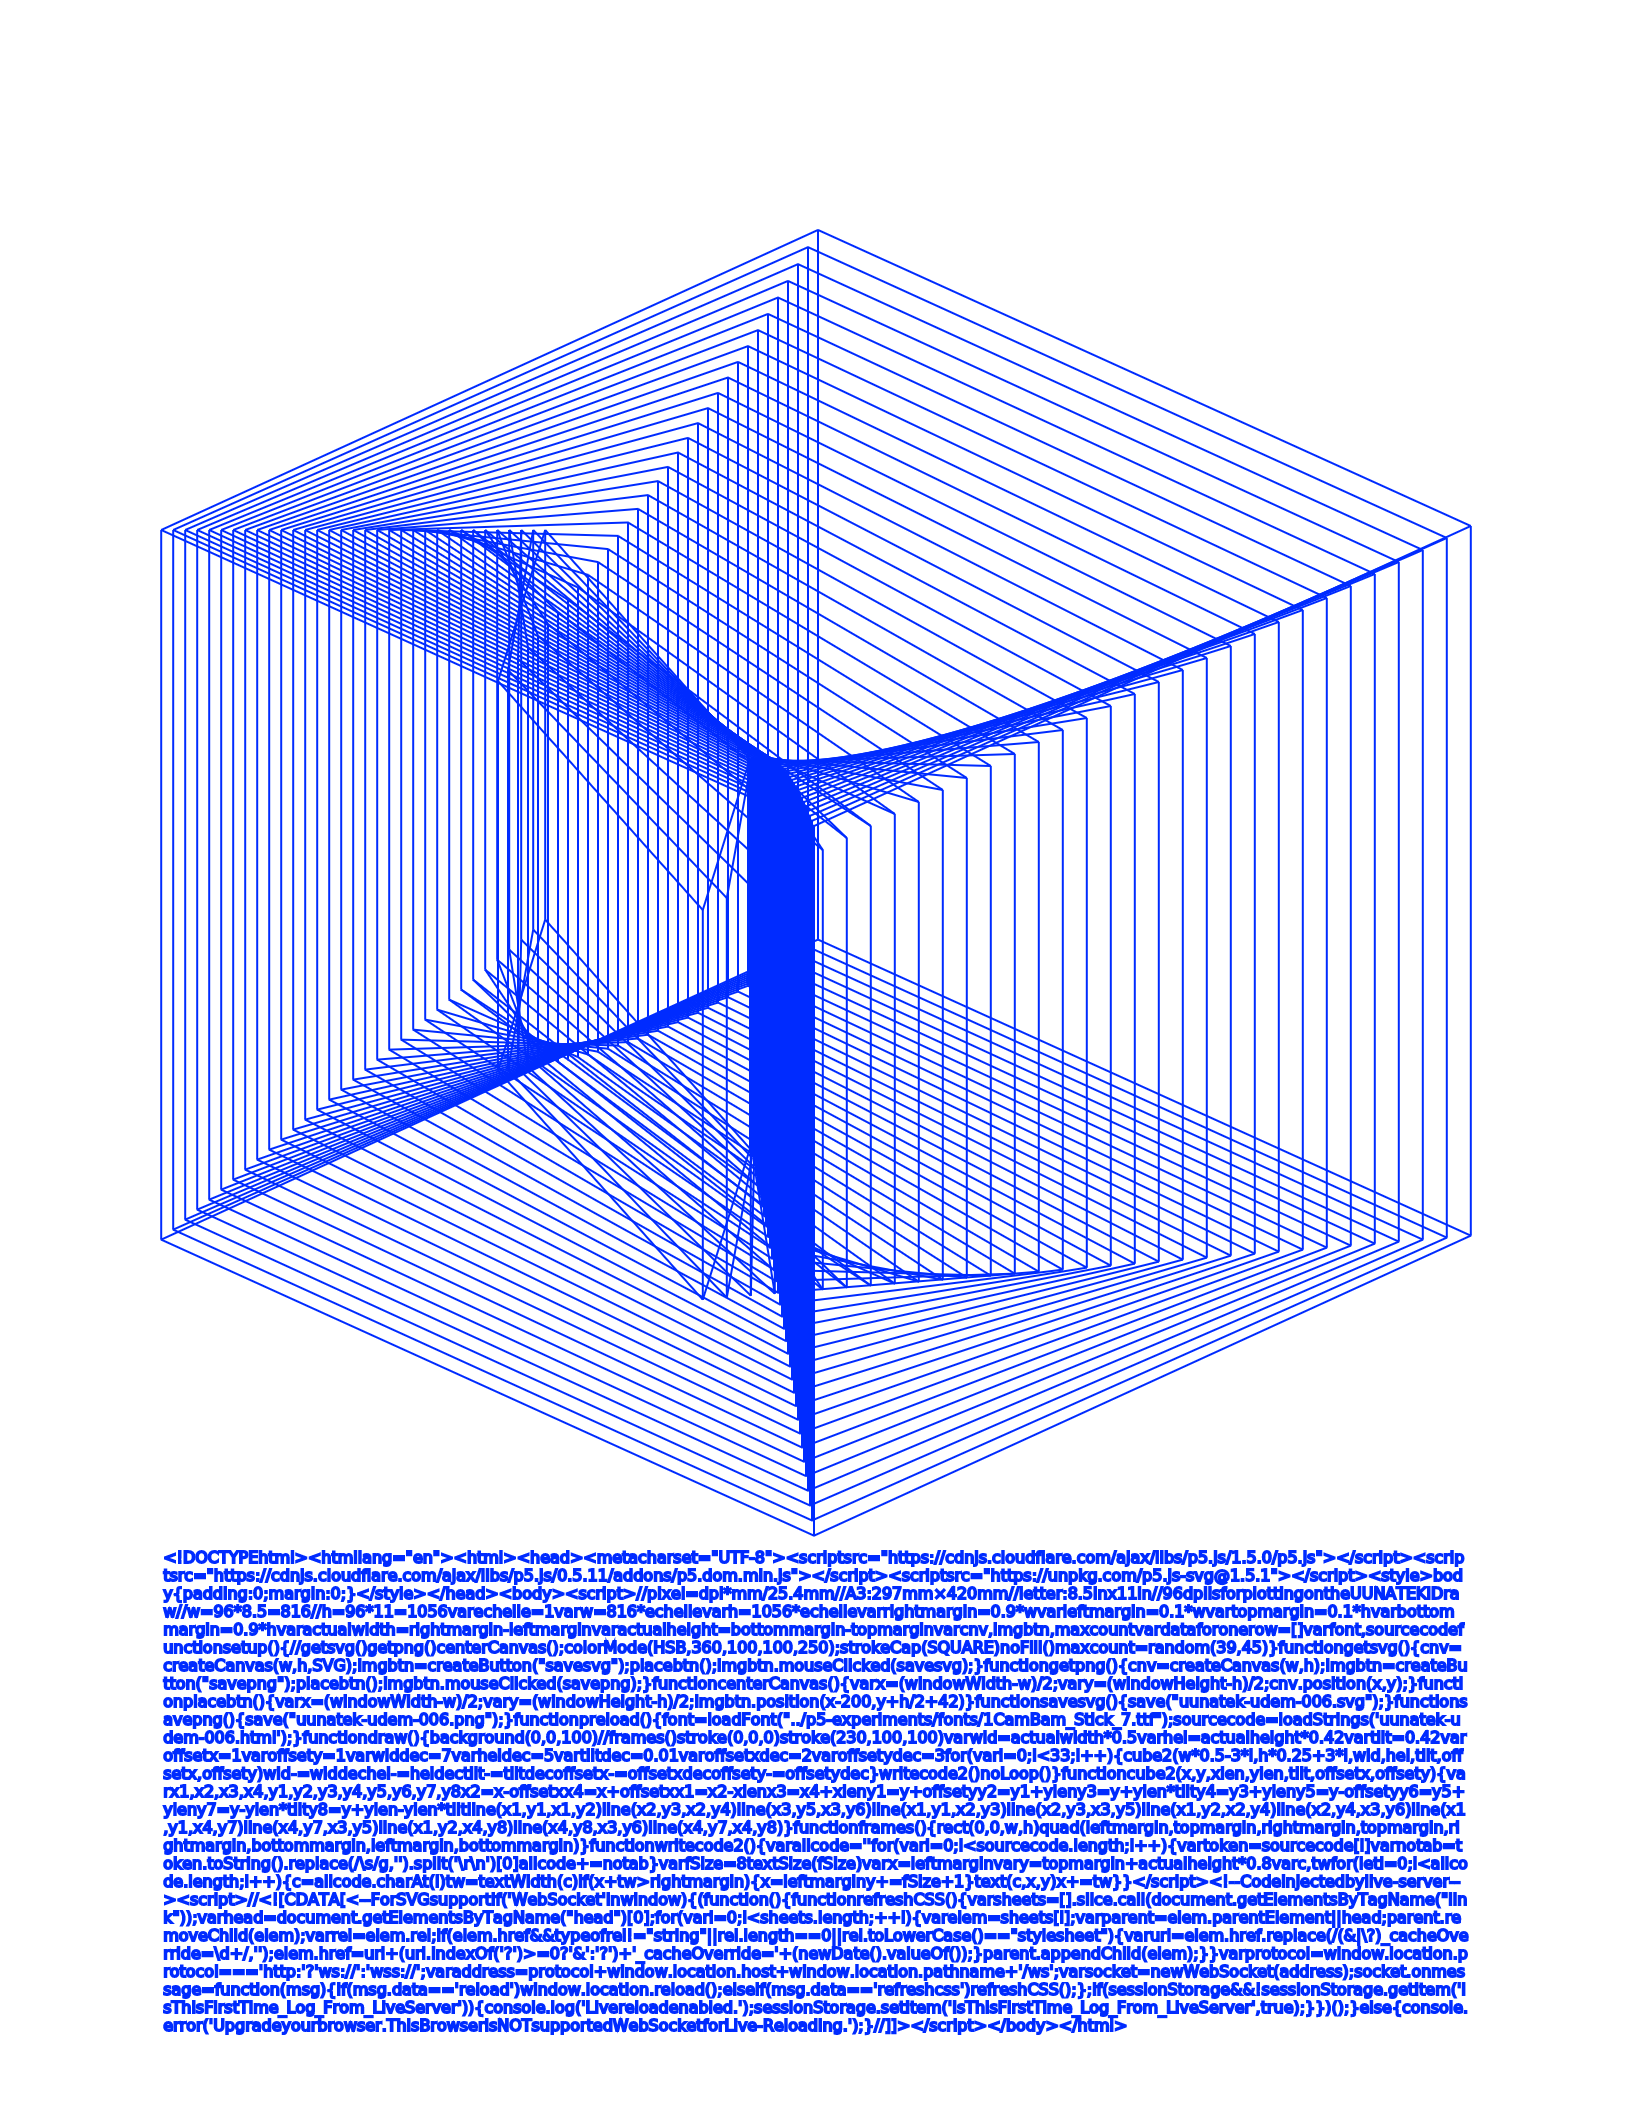
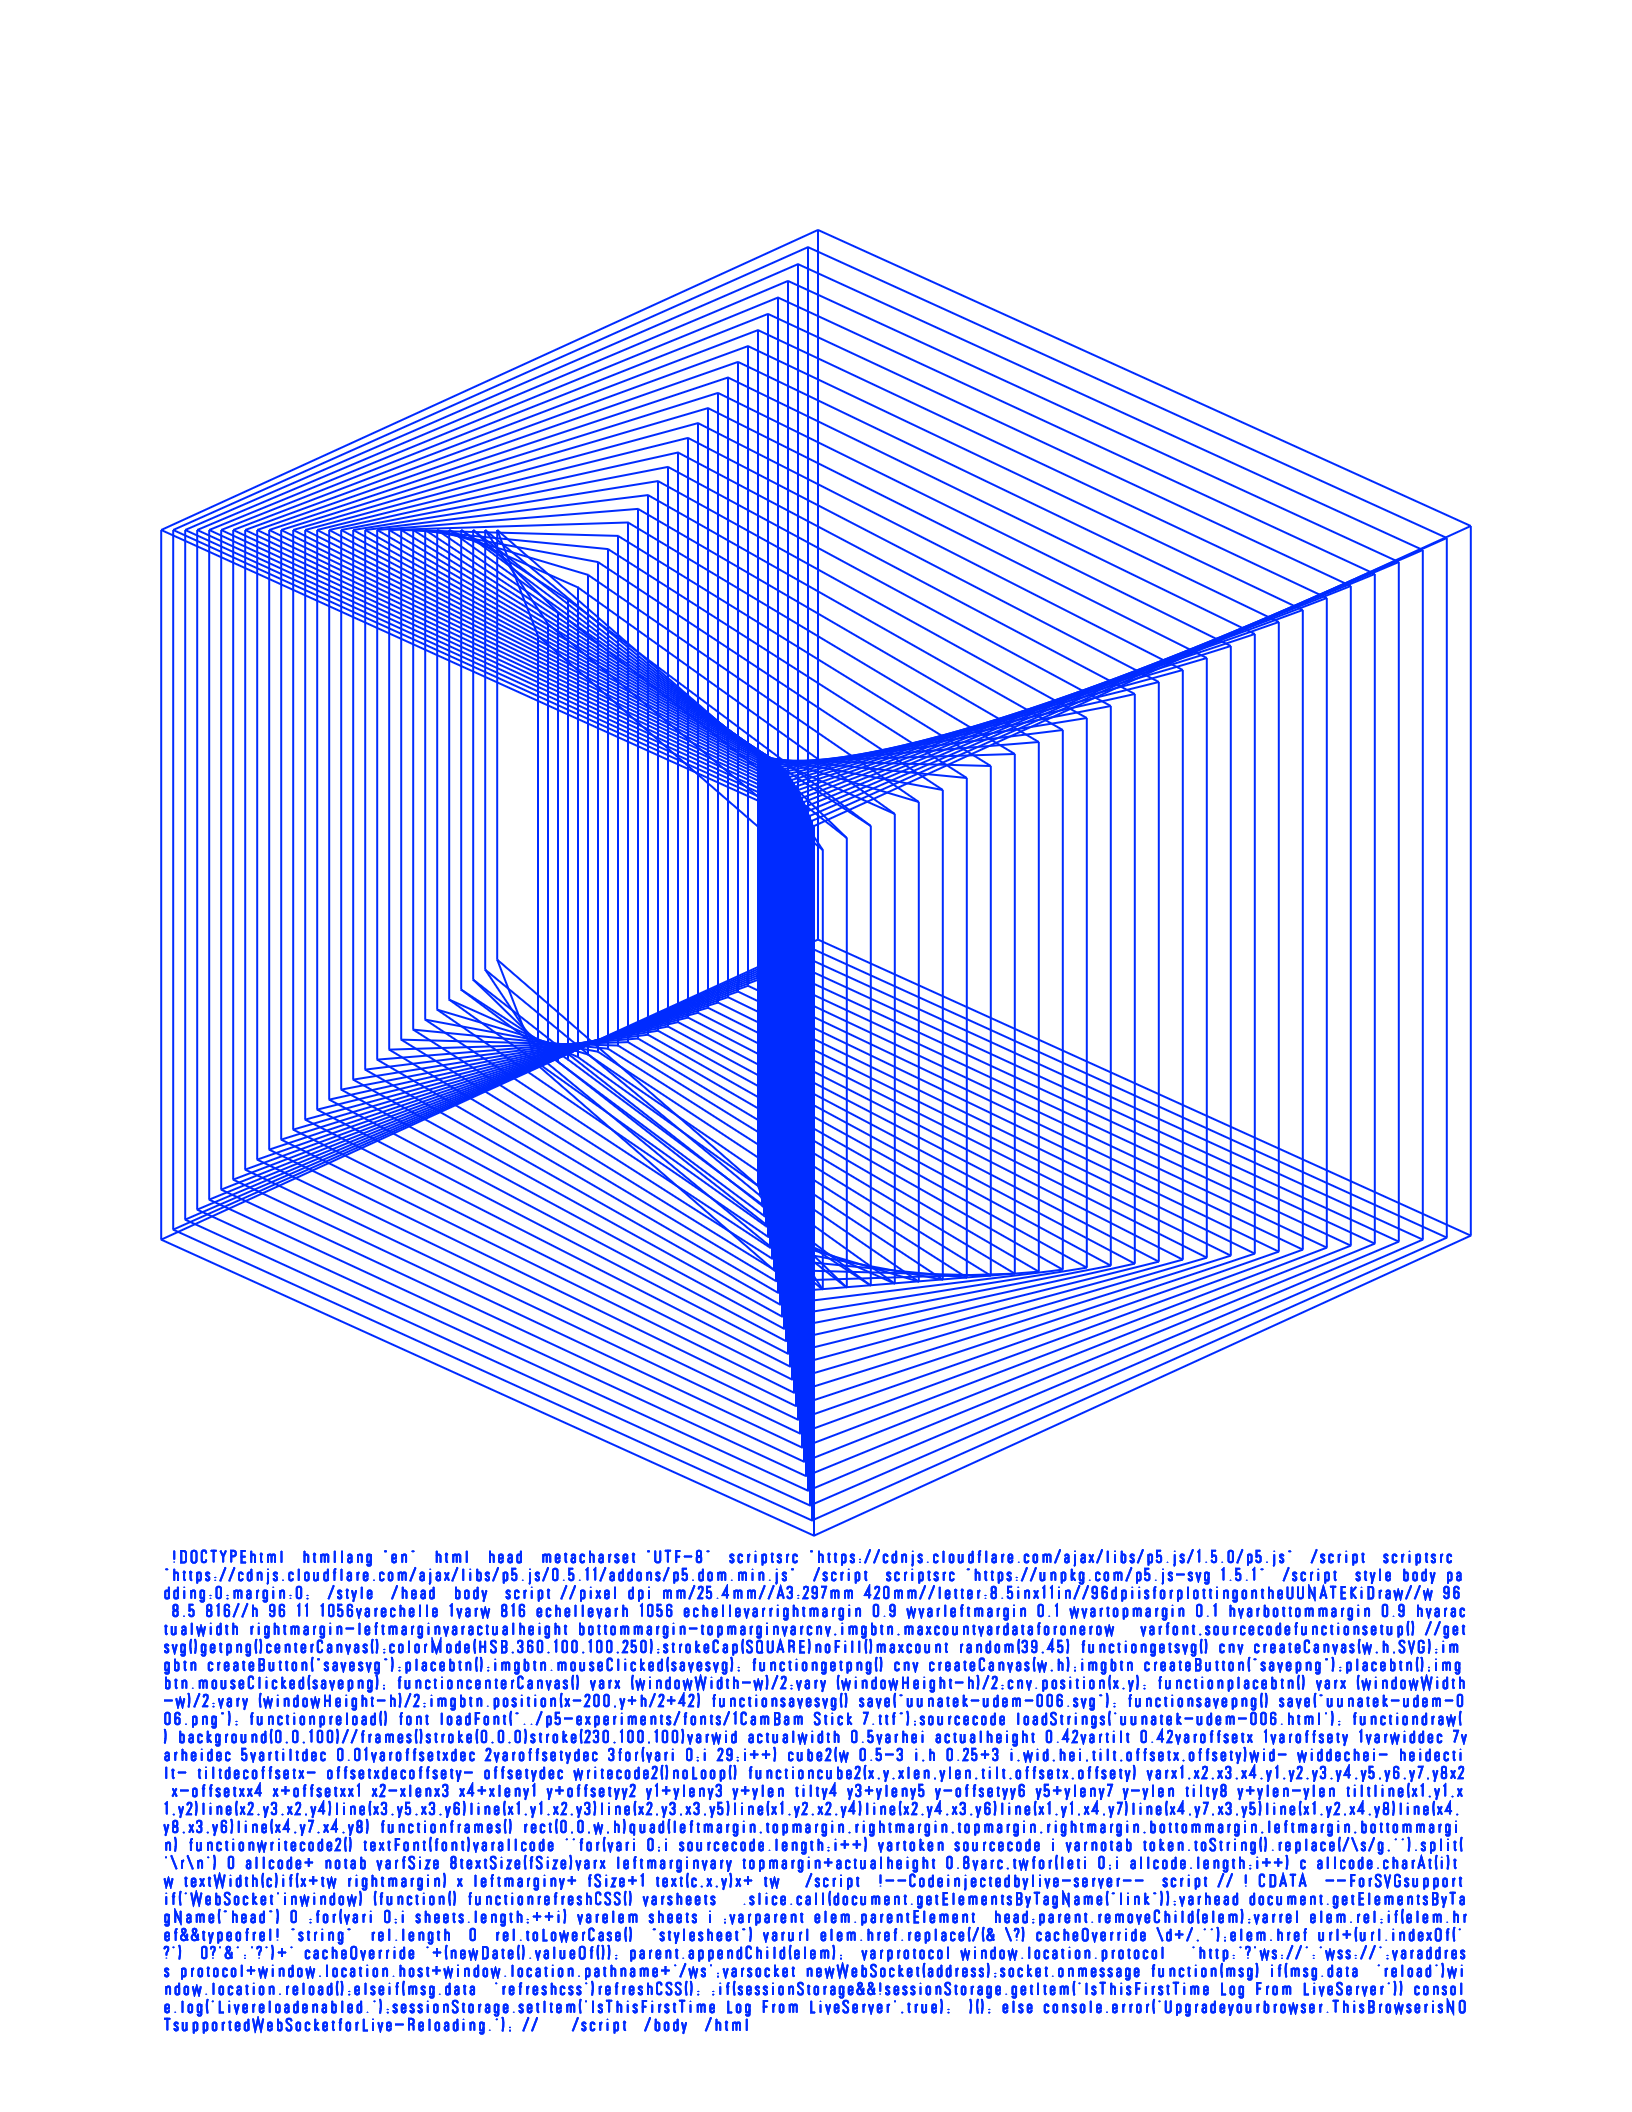
+°+}><{+°+

diff --git a/p5-experiments/plottable/ikedalines001.js b/p5-experiments/plottable/ikedalines001.js
@@ -1,19 +1,28 @@
-var xoff = 0.0
-var yoff = 0.0
-var yoff2 = 0.0
+var xoff=0.0 
+var yoff=0.0 
+var yoff2=0.0
+
+
+function savesvg() {
+    save("ikedalines001.svg");
+}
+
+function savepng() {
+    save("ikedalines001.png");
+}
 
 function draw() {
-    background(0, 0, 100)
-    stroke(0, 0, 0)
-    frames()
-    for(var i=0;i<21;i++){
+    //background(0, 0, 100)
+    frameRate(1)
+    stroke(0, 0, 0,100)
+    //frames()
+    var nbblocks=7
+    if(frameCount<nbblocks){
         block()
     }
-    stroke(0, 100, 100)
-    for(var i=0;i<21;i++){
-        block()
-    }
+    else{
     noLoop()
+}
 }
 
 function frames() {
@@ -29,12 +38,15 @@ function block() {
     xinc = 0.01
     yinc1 = 0.001
     yinc2 = 0.1
-    originx = leftmargin + actualwidth*random()
-    destx = originx+actualwidth * random()
+    originx = leftmargin + (actualwidth*0.1) * noise(xoff); xoff += xinc;//*random()
+    destx = originx+(actualwidth*0.5) * noise(xoff); xoff += xinc;// * random()
+    console.log("right margin: "+rightmargin)
+    console.log("origin x: "+originx)
+    console.log("dest x: "+destx)
     x1 = originx
     x2 = originx
     xstep = random(42,84)
-    ystep = actualheight* noise(yoff2); yoff2 += yinc2;//*random()
+    ystep = topmargin+actualheight* noise(yoff2); yoff2 += yinc2;//*random()
     depth = 42
     while (destx < rightmargin) {
         while (x2 < destx) {
@@ -47,11 +59,11 @@ function block() {
             ystep=actualheight* noise(yoff); yoff += yinc1;//*random()
         }
         originx = destx
-        destx += actualwidth * random()
+        destx += (actualwidth*0.5) * random()
         x1 = originx
         x2 = originx
-        xstep = random(42,126)
-        ystep=topmargin+actualheight*random()//* noise(yoff2); yoff2 += yinc2;//*random()
+        xstep = random(4,42)
+        ystep=topmargin+actualheight* noise(yoff2); yoff2 += yinc2;//*random()
         depth=Math.floor(random(84))
     }
 }

diff --git a/penplotting-udem/uunatek-udem-006.html b/penplotting-udem/uunatek-udem-006.html
@@ -37,8 +37,8 @@
         var font, sourcecode
 
         function setup() {
-            getsvg()
-            //getpng()
+            //getsvg()
+            getpng()
             centerCanvas();
             colorMode(HSB, 360, 100, 100, 250);
             strokeCap(SQUARE)

diff --git a/p5-experiments/plottable/plottableframe.js b/p5-experiments/plottable/plottableframe.js
@@ -52,9 +52,3 @@ function placebtn() {
     imgbtn.position(x - 200, y + h / 2 + 42)
 }
 
-function savesvg() {
-    save("plottableperspective004.svg");
-}
-function savepng() {
-    save("plottableperspective004.png");
-}

diff --git a/p5-experiments/plottable/ikedalines001.html b/p5-experiments/plottable/ikedalines001.html
@@ -17,7 +17,7 @@
 
 <body>
     <script src="plottableframe.js"></script>
-    <script src="ikedalines001.js"></script>
+    <script src="ikedalines001-credits.js"></script>
 </body>
 
 </html>
